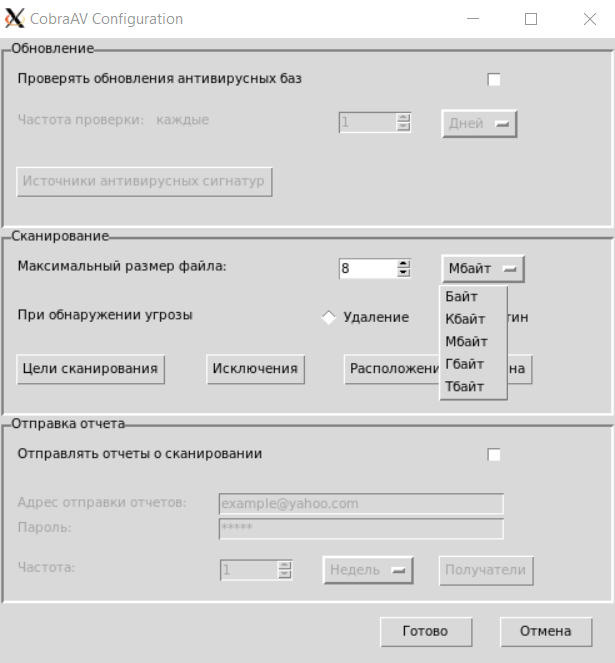
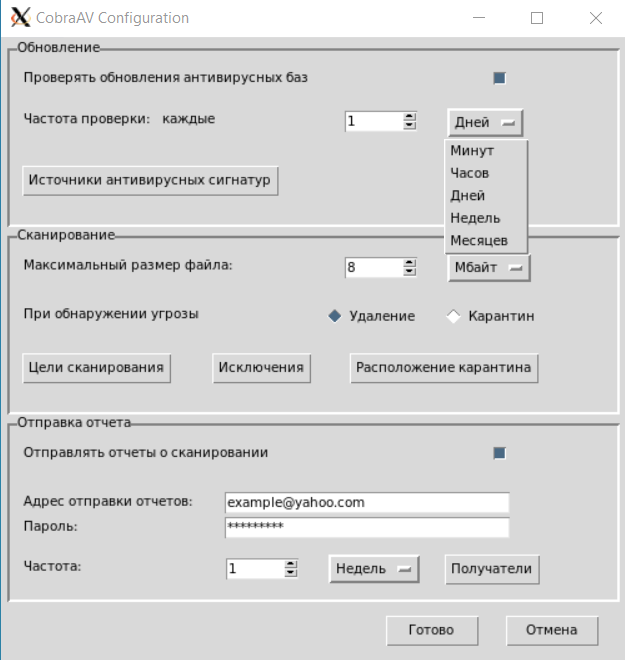
Updated readme

diff --git a/README.md b/README.md
@@ -5,7 +5,8 @@
 
 ### Установка:
 - Скачать дистрибутив программы из раздела [Releases](https://github.com/COOLIRON2311/CobraAV/releases)
-- Установить его командой `sudo apt install ./cobraav_0.1_amd64.deb`
+- Установить его командой `sudo apt install ./cobraav_1.1_amd64.deb`
+- Запустит антивирусную службу командой `sudo cobra start`
 
 ### Использование live-версии программы:
 - Скачать файл [tools/putty.exe](tools/putty.exe) из данного репозитория.
@@ -14,21 +15,22 @@
 - Запустить `server.cmd`
 - Протестировать утилиту `cobra` согласно следующей инструкции:
 ```
-Usage: cobra [command] [file]                                     
-                                                                  
-Commands:                                                         
-                                                                  
+Usage: cobra [command] [file]
+
+Commands:
+
  start/stop/status - Cobra Sentinel service control (reqires root)
- (de)contain       - Move file from/to quarantine                 
- remove            - Delete contained threat                      
- config            - Open configuration interface                 
- scan              - Manually specify scan target                 
- whitelist         - Add file signature to exceptions list        
- blacklist         - Add file signature to malware database       
- list-threats      - View contained threats                       
- clear-threats     - Delete all contained threats                 
-``` 
-<br><br/>
+ (de)contain       - Move file from/to quarantine
+ remove            - Delete contained threat
+ config            - Open configuration interface
+ setpwd            - Set sender email password
+ scan              - Manually specify scan target
+ update            - Manually update malware database
+ whitelist         - Add file signature to exceptions list
+ blacklist         - Add file signature to malware database
+ list-threats      - View contained threats
+ clear-threats     - Delete all contained threats
+```
 
 ***Обратите внимание:***
 - для всех команд работает [умное авто-дополнение bash](unix/cobra.sh)
@@ -36,9 +38,15 @@ Commands:
 ![](imgs/tab.gif)
 <br><br/>
 
+## API
+Библиотека `libavctl` делает возможным использование нашего приложения непосредственно из-под различных языков программирования:
+- `libavctl.py` - Python
+- `libavctl.h` - C++
+<br><br/>
+
 ## Демонстрация работы программы:<br><br/>
 ### Графический конфигуратор: (NEW!)<br><br/>
-![](imgs/config.png) ![](imgs/config2.png)<br><br/>
+![](imgs/config.png) ![](imgs/config2.png) ![](imgs/config3.png)<br><br/>
 
 ### Потребление памяти: (NEW!)<br><br/>
 ![](imgs/mem.png)<br><br/>
